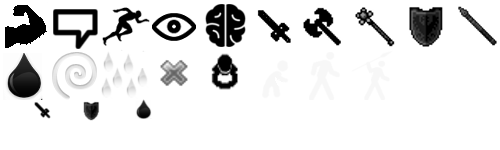
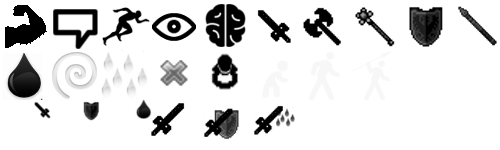
Added graphics for being hit and dodging

Changed region(s): [[0.39, 0.72, 0.48, 0.9333], [0.51, 0.6933, 0.6, 0.9067], [0.3, 0.6933, 0.39, 0.9067]]

diff --git a/Divine Right/DivineRightGame/CombatHandling/CombatManager.cs b/Divine Right/DivineRightGame/CombatHandling/CombatManager.cs
@@ -175,12 +175,12 @@ namespace DivineRightGame.CombatHandling
             List<ActionFeedback> feedback = new List<ActionFeedback>();
 
             //Add a temporary item to show someone's an attacker
-            GameState.LocalMap.TemporaryGraphics.Add(new TemporaryGraphic()
-            {
-                Coord = new MapCoordinate(attacker.MapCharacter.Coordinate),
-                Graphic = SpriteManager.GetSprite(InterfaceSpriteName.SWORD),
-                LifeTime = attacker.IsPlayerCharacter ? 1 : 2
-            });
+            //GameState.LocalMap.TemporaryGraphics.Add(new TemporaryGraphic()
+            //{
+            //    Coord = new MapCoordinate(attacker.MapCharacter.Coordinate),
+            //    Graphic = SpriteManager.GetSprite(InterfaceSpriteName.SWORD),
+            //    LifeTime = attacker.IsPlayerCharacter ? 1 : 2
+            //});
 
             //Do we succeed in the attack?
             int atk = 0;
@@ -264,7 +264,16 @@ namespace DivineRightGame.CombatHandling
 
                         feedback.Add(LogAction(attacker,defender,location,damageType,LogMessageStatus.DEFENDED,diceRoll));
 
+                        //And mark it
+                        GameState.LocalMap.TemporaryGraphics.Add(new TemporaryGraphic()
+                        {
+                            Coord = new MapCoordinate(defender.MapCharacter.Coordinate),
+                            Graphic = SpriteManager.GetSprite(InterfaceSpriteName.BLOCKED),
+                            LifeTime = attacker.IsPlayerCharacter ? 1 : 2
+                        });
+
                         return feedback.ToArray();
+
                     }
                 }
 
@@ -302,6 +311,14 @@ namespace DivineRightGame.CombatHandling
                 {
                     //Bounced off the armour
                     feedback.Add(LogAction(attacker, defender, location, damageType, LogMessageStatus.BOUNCE, diceRoll));
+
+                    GameState.LocalMap.TemporaryGraphics.Add(new TemporaryGraphic()
+                    {
+                        Coord = new MapCoordinate(defender.MapCharacter.Coordinate),
+                        Graphic = SpriteManager.GetSprite(InterfaceSpriteName.BLOCKED),
+                        LifeTime = attacker.IsPlayerCharacter ? 1 : 2
+                    });
+
                     return feedback.ToArray();
                 }
 
@@ -354,6 +371,14 @@ namespace DivineRightGame.CombatHandling
                     default:
                         throw new NotImplementedException(location + " has no code prepared for damage");
                 }
+
+                GameState.LocalMap.TemporaryGraphics.Add(new TemporaryGraphic()
+                {
+                    Coord = new MapCoordinate(defender.MapCharacter.Coordinate),
+                    Graphic = SpriteManager.GetSprite(InterfaceSpriteName.HIT),
+                    LifeTime = attacker.IsPlayerCharacter ? 1 : 2
+                });
+
 
                 //Damage assessment - Do this properly later
                 switch (location)
@@ -480,6 +505,13 @@ namespace DivineRightGame.CombatHandling
                 }
 
                 feedback.Add(LogAction(attacker, defender, location, damageType, LogMessageStatus.MISS, diceRoll));
+
+                GameState.LocalMap.TemporaryGraphics.Add(new TemporaryGraphic()
+                {
+                    Coord = new MapCoordinate(defender.MapCharacter.Coordinate),
+                    Graphic = SpriteManager.GetSprite(InterfaceSpriteName.BLOCKED),
+                    LifeTime = attacker.IsPlayerCharacter ? 1 : 2
+                });
             }
 
             //We're done

diff --git a/Divine Right/Objects/Graphics/SpriteManager.cs b/Divine Right/Objects/Graphics/SpriteManager.cs
@@ -920,8 +920,8 @@ namespace DRObjects.Graphics
             interfaceSprites[(int)InterfaceSpriteName.HUNGRY] = new SpriteData(CHARACTER_SHEET, new Rectangle(400, 50, 50, 50));
             
             interfaceSprites[(int)InterfaceSpriteName.ATTACKER] = new SpriteData(CHARACTER_SHEET, new Rectangle(0, 100, 50, 50));
-            interfaceSprites[(int)InterfaceSpriteName.DEFENDER] = new SpriteData(CHARACTER_SHEET, new Rectangle(50, 100, 50, 50));
-            interfaceSprites[(int)InterfaceSpriteName.HIT] = new SpriteData(CHARACTER_SHEET, new Rectangle(100, 100, 50, 50));
+            interfaceSprites[(int)InterfaceSpriteName.BLOCKED] = new SpriteData(CHARACTER_SHEET, new Rectangle(200, 100, 50, 50));
+            interfaceSprites[(int)InterfaceSpriteName.HIT] = new SpriteData(CHARACTER_SHEET, new Rectangle(250, 100, 50, 50));
 
             interfaceSprites[(int)InterfaceSpriteName.BANNER_GREEN] = new SpriteData(BANNERS, new Rectangle(1, 0, 60, 100));
             interfaceSprites[(int)InterfaceSpriteName.BANNER_YELLOW] = new SpriteData(BANNERS, new Rectangle(71, 0, 60, 100));

diff --git a/Divine Right/Objects/Graphics/InterfaceSpriteName.cs b/Divine Right/Objects/Graphics/InterfaceSpriteName.cs
@@ -70,6 +70,7 @@ namespace DRObjects.Graphics
         POTION_ICON,
         ATTACKER,
         DEFENDER,
-        HIT
+        HIT,
+        BLOCKED
     }
 }
